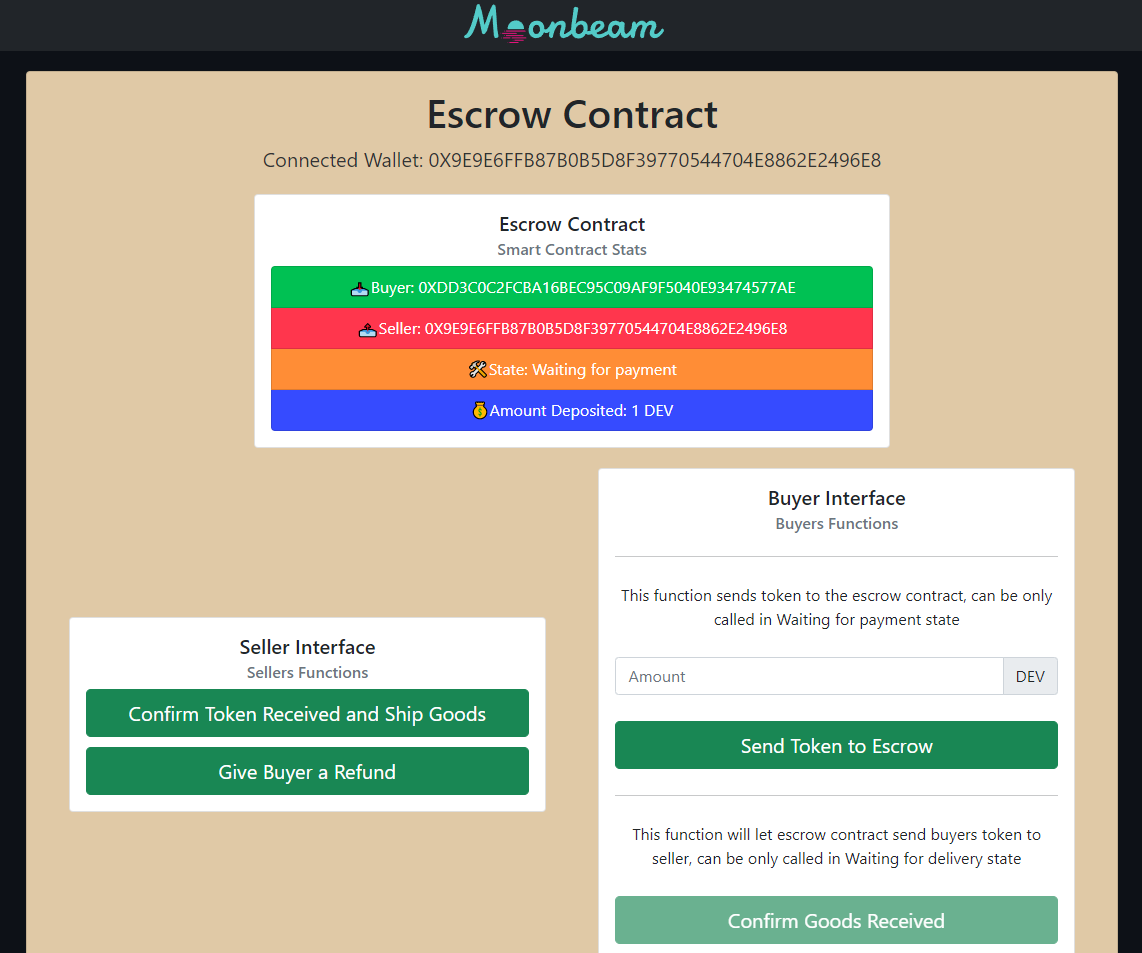
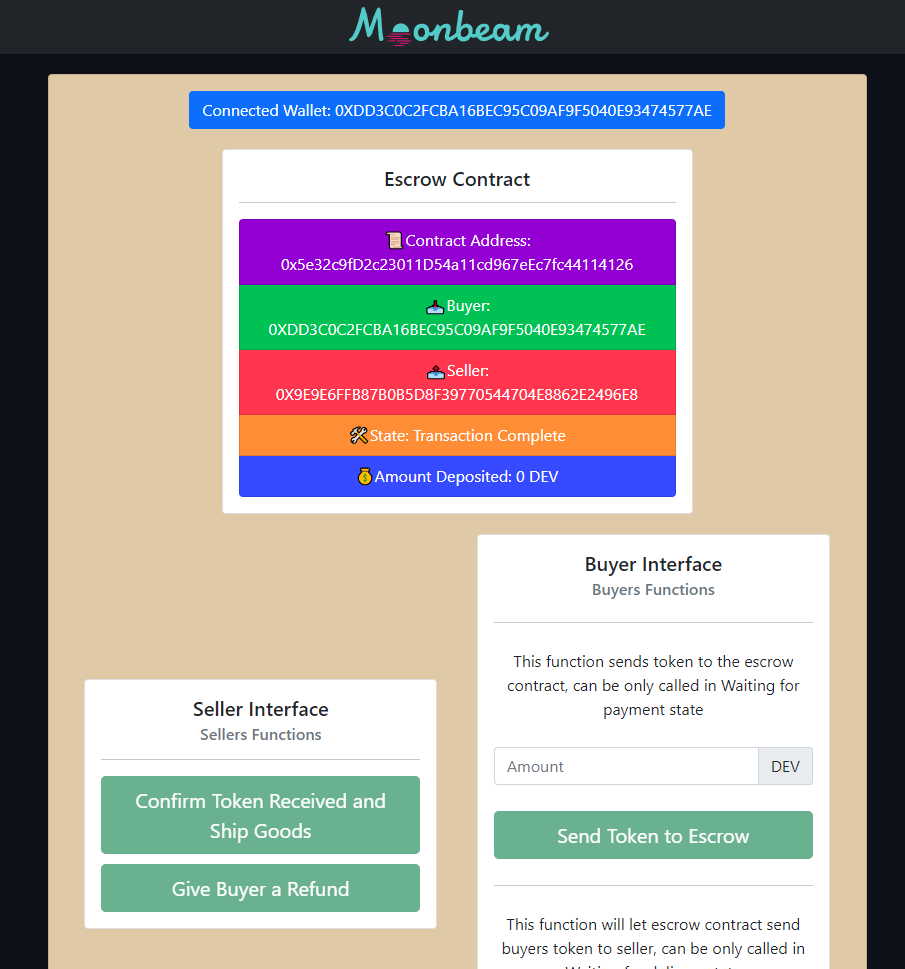
fixed web3 function

diff --git a/src/components/BuyerSellerPanel.js b/src/components/BuyerSellerPanel.js
@@ -1,17 +1,8 @@
 import React, { Component } from 'react'
-import { Button, Card, ListGroup, InputGroup, FormControl } from 'react-bootstrap'
+import { Button, Card, ListGroup, InputGroup, FormControl, Alert, Spinner } from 'react-bootstrap'
 import Web3 from 'web3';
 import detectEthereumProvider from '@metamask/detect-provider';
 import ContractABI from './Escrow_abi.json'
-
-
-
-// TransactionState = {
-//     waiting_for_payment: "0",
-//     waiting_for_delivery: "1",
-//     transaction_complete: "2" 
-// }
-
 
 
 
@@ -22,13 +13,14 @@ export default class BuyerSellerPanel extends Component {
         
         // states
         this.state = {
-            ContractAddr: "0x5e32c9fD2c23011D54a11cd967eEc7fc44114126",
+            ContractAddr: "0x5e32c9fD2c23011D54a11cd967eEc7fc44114126",  // paste contract address here
             ConnectedAddr: "",
             BuyerAddr: "",
             SellerAddr: "",
             CurrState: 0,
             AmountDeposited: 0,
-            Contract: null
+            Contract: null,
+            IsLoading: false
         }
 
         // refs
@@ -37,11 +29,12 @@ export default class BuyerSellerPanel extends Component {
     }
 
     async componentDidMount(){
+        // look for metamask
         await this.Connect()
     }
 
 
-
+    // connect to metamask
     Connect = async () => {
 
         // detect metamask
@@ -97,10 +90,6 @@ export default class BuyerSellerPanel extends Component {
 
     // return true if connected metamask addr matches buyer
     isBuyer = () => {
-        
-        console.log(this.state.BuyerAddr)
-        console.log(this.state.ConnectedAddr)
-        
         if (this.state.ConnectedAddr === this.state.BuyerAddr) {
             return true
         }
@@ -125,50 +114,53 @@ export default class BuyerSellerPanel extends Component {
     Seller_Confirm_Token = async () => {
         if (!this.isSeller()) return
 
-        console.log("Seller confirm received token and send the goods " + this.state.ConnectedAddr)
-        
-        
+        console.log("Seller confirm received token and send the goods ")
 
+        // show the alert
+        this.ToggleWaitingAlert()
+  
         // call smart contract function
-        await this.state.Contract.methods.ConfirmShipping()
-        .call({from: this.state.ConnectedAddr}, function(error, result){
-            console.log(error)
-            console.log(result)
-
+        let result = await this.state.Contract.methods.ConfirmShipping()
+        .send({
+            from: this.state.ConnectedAddr
         })
-        
+        console.log(result)
 
+        // hide alert
+        this.ToggleWaitingAlert()
         // pull contract state
         this.UpdateContractStats()
     }
 
+
+
+
+    // seller refund
     Seller_Refund_Token = async () => {
         if (!this.isSeller()) return
 
-        console.log("Seller gives buyer a refund")
+        console.log("Seller gives buyer a refund, please wait...")
+        
+        // show the alert
+        this.ToggleWaitingAlert()
 
         // call smart contract function
-        let result = await this.state.Contract.methods.Refund().call({from: this.state.ConnectedAddr})
+        let result = await this.state.Contract.methods.Refund()
+        .send({
+            from: this.state.ConnectedAddr
+        })
         console.log(result)
 
-
+        // hide alert
+        this.ToggleWaitingAlert()
         // pull contract state
         this.UpdateContractStats()
+
     }
 
 
-    // buyer confirm received goods
-    Buyer_Confirm_Goods = async () => {
-        if (!this.isBuyer()) return
 
-        console.log("Buyer confirm received goods")
-
-
-        // pull contract state
-        this.UpdateContractStats()
-    }
-
-
+    // buyer send token
     Buyer_SendToken = async () => {
         
         if (!this.isBuyer()) return
@@ -177,8 +169,12 @@ export default class BuyerSellerPanel extends Component {
             return
         }
         console.log(this.BuyerTokenInput.current.value)
-        console.log("Buyer send tokens")
-        
+        console.log("Buyer send tokens, please wait...")
+
+        // show the alert
+        this.ToggleWaitingAlert()
+
+
         // call smart contract function and send tokens
         let result = await this.state.Contract.methods.MakePayment()
         .send({
@@ -190,25 +186,70 @@ export default class BuyerSellerPanel extends Component {
         })
         console.log(result)
 
+        // hide alert
+        this.ToggleWaitingAlert()
         // pull contract state
         this.UpdateContractStats()
         
+        
     }
 
+    
+    
+    
+    // buyer confirm received goods
+    Buyer_Confirm_Goods = async () => {
+        if (!this.isBuyer()) return
+        
+        console.log("Buyer confirm received goods, please wait...")
+        
+        // show the alert
+        this.ToggleWaitingAlert()
 
+        // call smart contract function
+        let result = await this.state.Contract.methods.ConfirmReceiving()
+        .send({
+            from: this.state.ConnectedAddr
+        })
+        console.log(result)
+        
+        
+        // hide alert
+        this.ToggleWaitingAlert()
+        // pull contract state
+        this.UpdateContractStats()
+
+    }
+
+    
+
+    // toggle the waiting alert component 
+    ToggleWaitingAlert = () => {
+        this.setState({
+            IsLoading: !this.state.IsLoading
+        })
+    }
+    
+    
+    
+    // pull info from smart contract
     UpdateContractStats = async () => {
+        // show the alert
+        this.ToggleWaitingAlert()
+
+        // get info from contract
         let buyer = await this.state.Contract.methods.Buyer().call()
         let seller = await this.state.Contract.methods.Seller().call()
         let balance = await this.state.Contract.methods.GetBalance().call()
         let state = await this.state.Contract.methods.CurrentState().call()
 
+        console.log("Contract Info Updated~~")
+        // console.log(buyer)
+        // console.log(seller)
+        // console.log(balance)
+        // console.log(state)
 
-        console.log(buyer)
-        console.log(seller)
-        console.log(balance)
-        console.log(state)
-
-
+        // save info in state
         this.setState({ 
             BuyerAddr: buyer.toUpperCase(),
             SellerAddr: seller.toUpperCase(),
@@ -216,6 +257,8 @@ export default class BuyerSellerPanel extends Component {
             CurrState: parseInt(state)
         })
 
+        // hdie alert
+        this.ToggleWaitingAlert()
 
     }
 
@@ -224,18 +267,22 @@ export default class BuyerSellerPanel extends Component {
     render() {
         return (
             <Card body style={{ maxWidth: "60vw", margin: "auto", marginTop: "20px", backgroundColor: "#e0c9a6"}}>
-                <h1>Escrow Contract</h1>
-                <p style={{color: "#333", fontSize: "20px"}}>Connected Wallet: {this.state.ConnectedAddr}</p>
-
+                <Button style={{ fontSize: "16px"}} onClick={this.Connect}>Connected Wallet: {this.state.ConnectedAddr}</Button>
+                <Alert variant="warning" style={{ marginTop: "10px" }} show={this.state.IsLoading}>
+                    <Alert.Heading>Waiting for Blockchain to Execute Order......</Alert.Heading>
+                    <Spinner animation="border" variant="success" />
+                </Alert>
 
                 {/* contract stats */}
                 <Card style={{ width: '60%', margin: 'auto', marginTop: '20px'}}>
                     <Card.Body>
                         <Card.Title>Escrow Contract</Card.Title>
-                        <Card.Subtitle className="mb-2 text-muted">Smart Contract Stats</Card.Subtitle>
+                        <Card.Subtitle className="mb-2 text-muted"></Card.Subtitle>
+                        <hr/>
                         
                         {/* info from smart contract */}
                         <ListGroup >
+                            <ListGroup.Item style={{color: 'white', backgroundColor: "#9400D3"}}>📜Contract Address: {this.state.ContractAddr}</ListGroup.Item>
                             <ListGroup.Item style={{color: 'white', backgroundColor: "#00c153"}}>📥Buyer: {this.state.BuyerAddr}</ListGroup.Item>
                             <ListGroup.Item style={{color: 'white', backgroundColor: "#ff364d"}}>📤Seller: {this.state.SellerAddr}</ListGroup.Item>
                             <ListGroup.Item style={{color: 'white', backgroundColor: "#ff8d36"}}>🛠State: {this.GiveState()}</ListGroup.Item>
@@ -254,6 +301,7 @@ export default class BuyerSellerPanel extends Component {
                         <Card.Body>
                             <Card.Title>Seller Interface</Card.Title>
                             <Card.Subtitle className="mb-2 text-muted">Sellers Functions</Card.Subtitle>
+                            <hr/>
 
                             {/* seller functions */}
                             <div style={{ display: 'grid', gridGap: "10px" }}>
